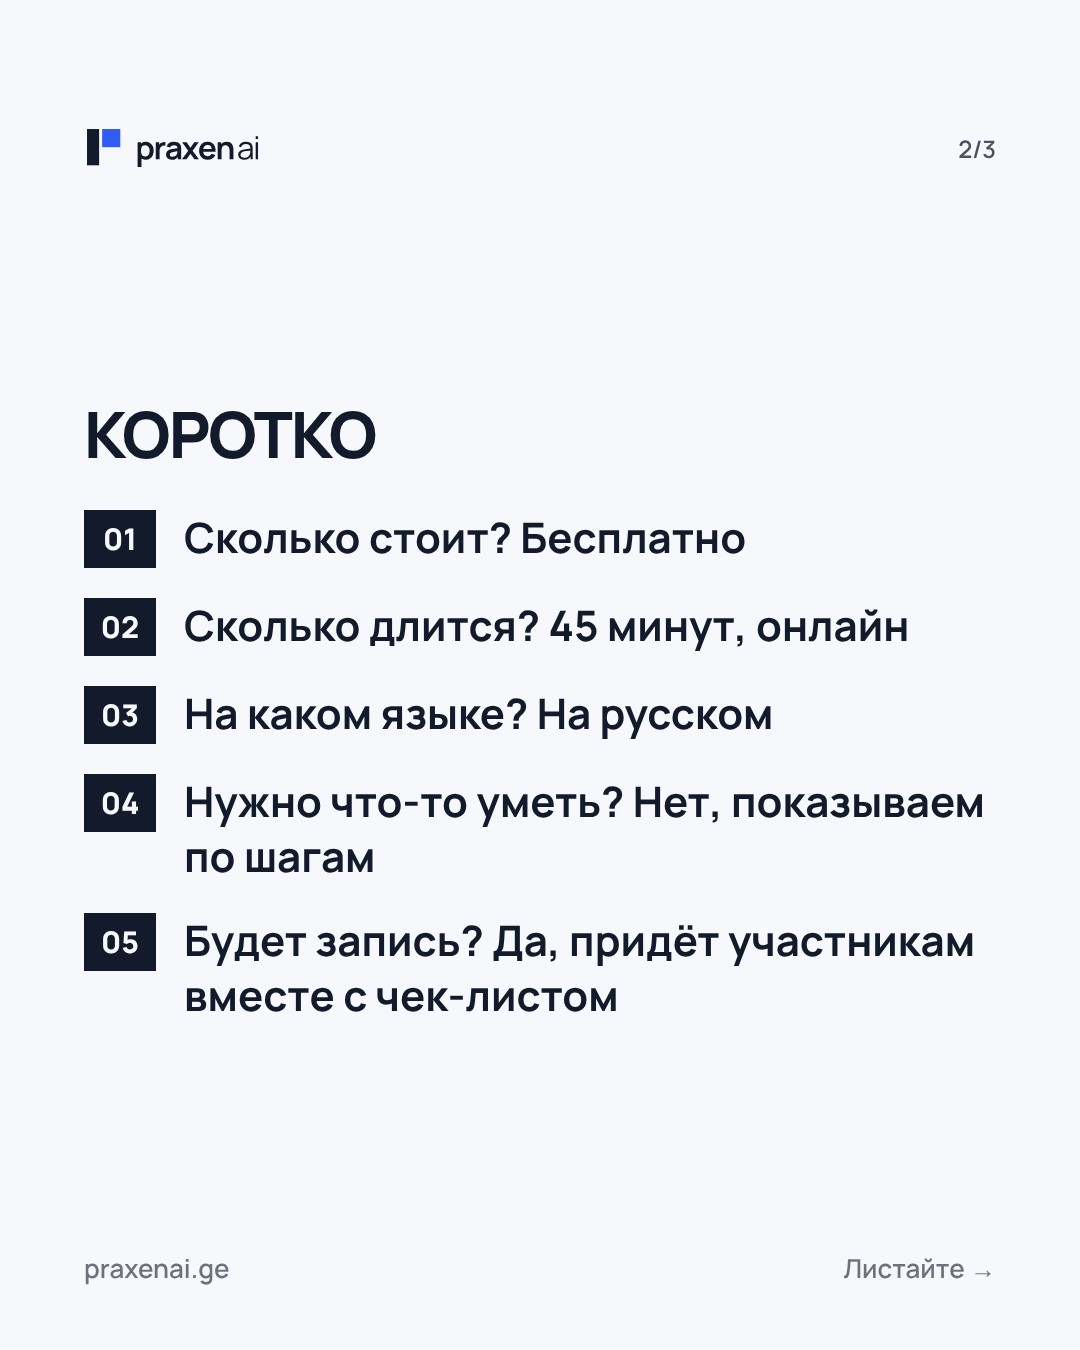
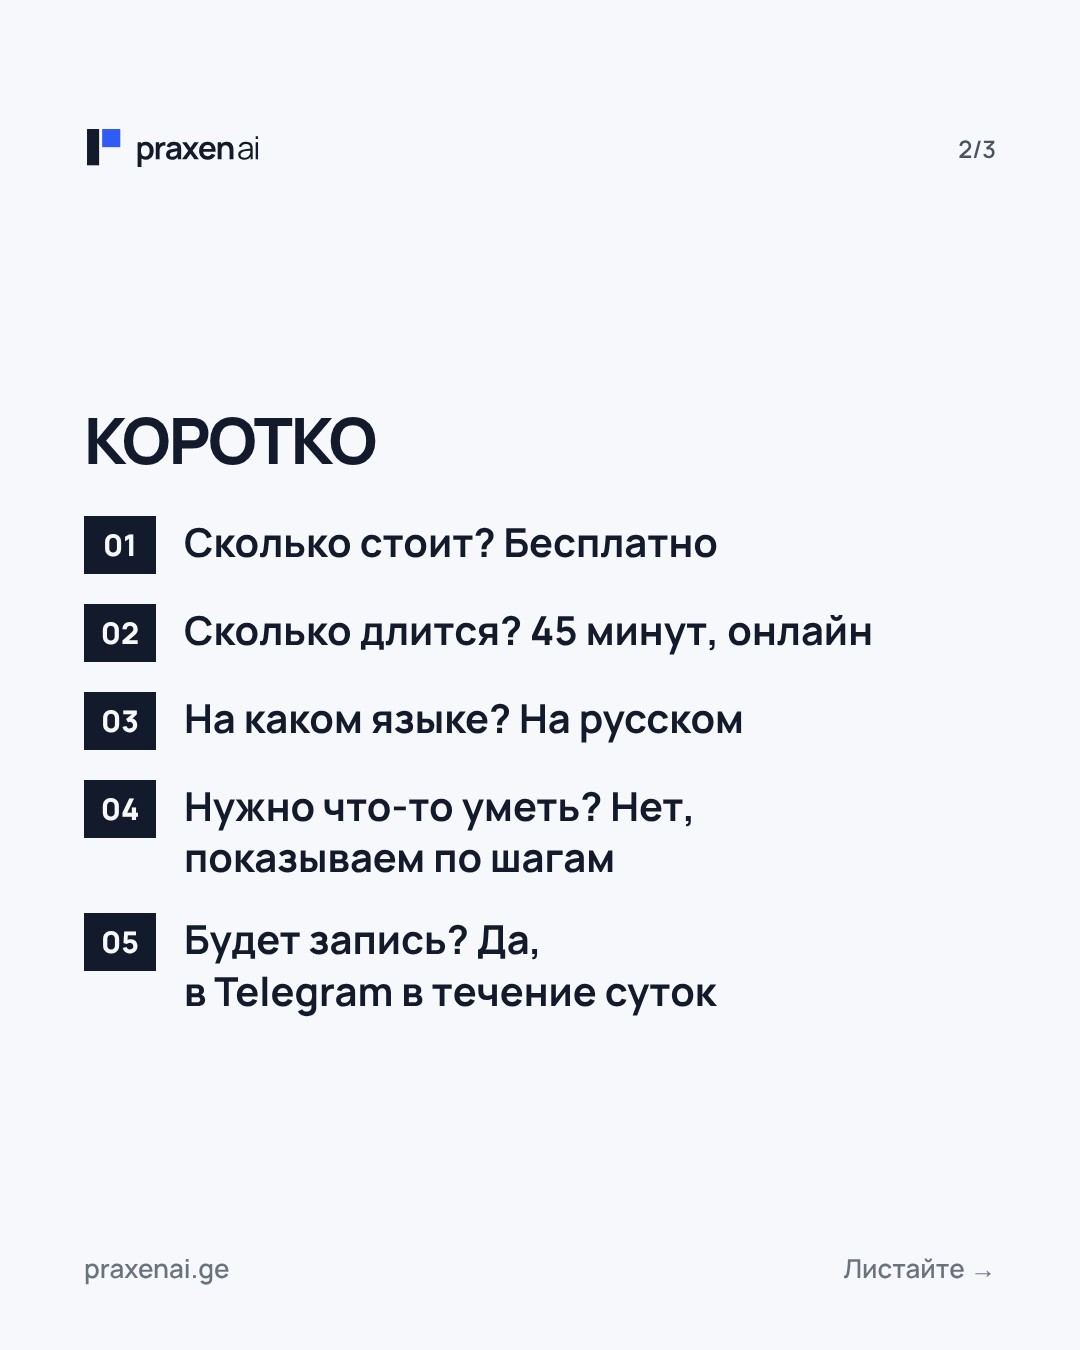
Social: posts for 7–13.12 per SMM plan (f18–f20, stories s27–s31 in new batch stories-2026-12, i24–i25 manual, tg23–tg24, t46–t58 with five off for the countdown); countdown fixes (recording within a day, i15 «завтра в 19:00», workshop_dec12 tags); render: button text fit, long lists, list start, VS
Claude-Session: https://claude.ai/code/session_016cAohA96poWtWPnijEGNmN

Changed region(s): [[0.0917, 0.3733, 0.9167, 0.6533], [0.1528, 0.6844, 0.9167, 0.7778], [0.0917, 0.28, 0.3667, 0.3422]]

diff --git a/content/social/out/stories-2026-12/s31-human-in-the-loop/captions.md b/content/social/out/stories-2026-12/s31-human-in-the-loop/captions.md
@@ -1,0 +1,5 @@
+# s31-human-in-the-loop · 2026-12-13 · about
+
+## ru
+
+

diff --git a/content/social/out/stories-2026-12/s27-procurement/captions.md b/content/social/out/stories-2026-12/s27-procurement/captions.md
@@ -1,0 +1,5 @@
+# s27-procurement · 2026-12-07 · usecase
+
+## ru
+
+

diff --git a/content/social/out/stories-2026-12/s28-what-stays/captions.md b/content/social/out/stories-2026-12/s28-what-stays/captions.md
@@ -1,0 +1,5 @@
+# s28-what-stays · 2026-12-09 · about
+
+## ru
+
+

diff --git a/content/social/out/stories-2026-12/s29-industries/captions.md b/content/social/out/stories-2026-12/s29-industries/captions.md
@@ -1,0 +1,5 @@
+# s29-industries · 2026-12-10 · about
+
+## ru
+
+

diff --git a/content/social/out/stories-interactive-2026-12/i24-12-08/captions.md b/content/social/out/stories-interactive-2026-12/i24-12-08/captions.md
@@ -1,0 +1,5 @@
+# i24-12-08 · 2026-12-08 · undefined
+
+## ru
+
+

diff --git a/content/social/out/stories-interactive-2026-12/i25-12-11/captions.md b/content/social/out/stories-interactive-2026-12/i25-12-11/captions.md
@@ -1,0 +1,5 @@
+# i25-12-11 · 2026-12-11 · undefined
+
+## ru
+
+

diff --git a/content/social/out/stories-2026-12/s30-threads/captions.md b/content/social/out/stories-2026-12/s30-threads/captions.md
@@ -1,0 +1,5 @@
+# s30-threads · 2026-12-12 · about
+
+## ru
+
+
